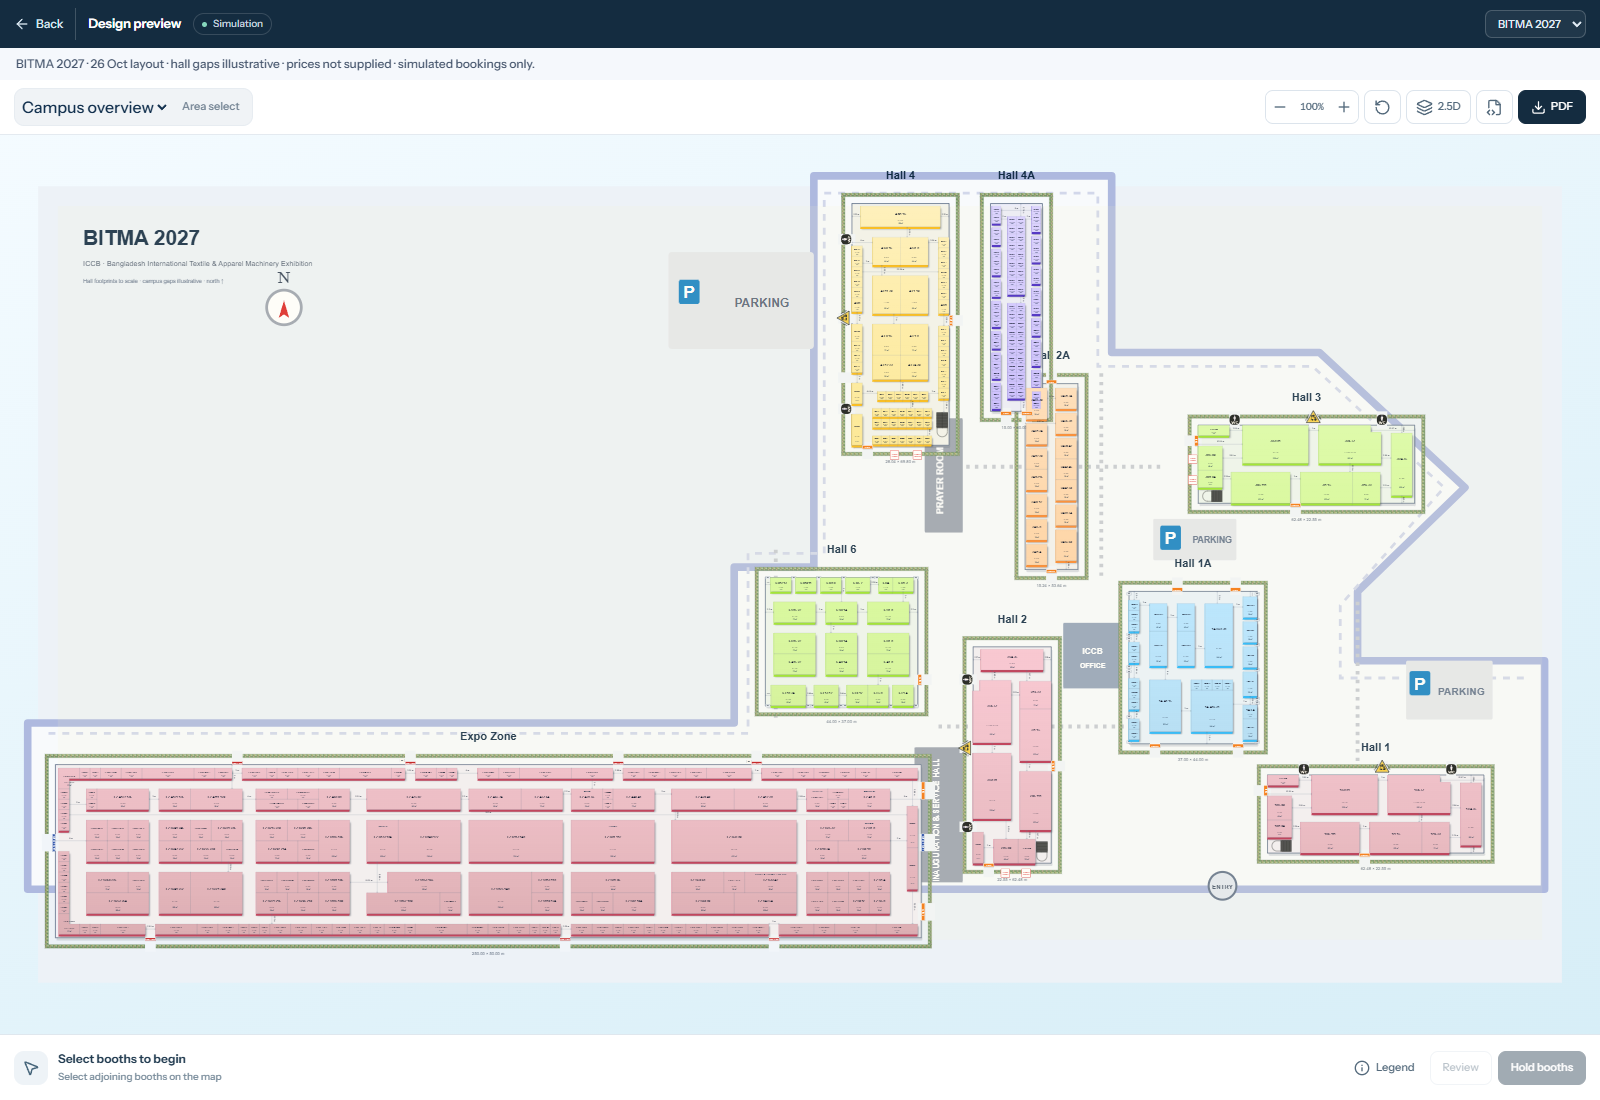
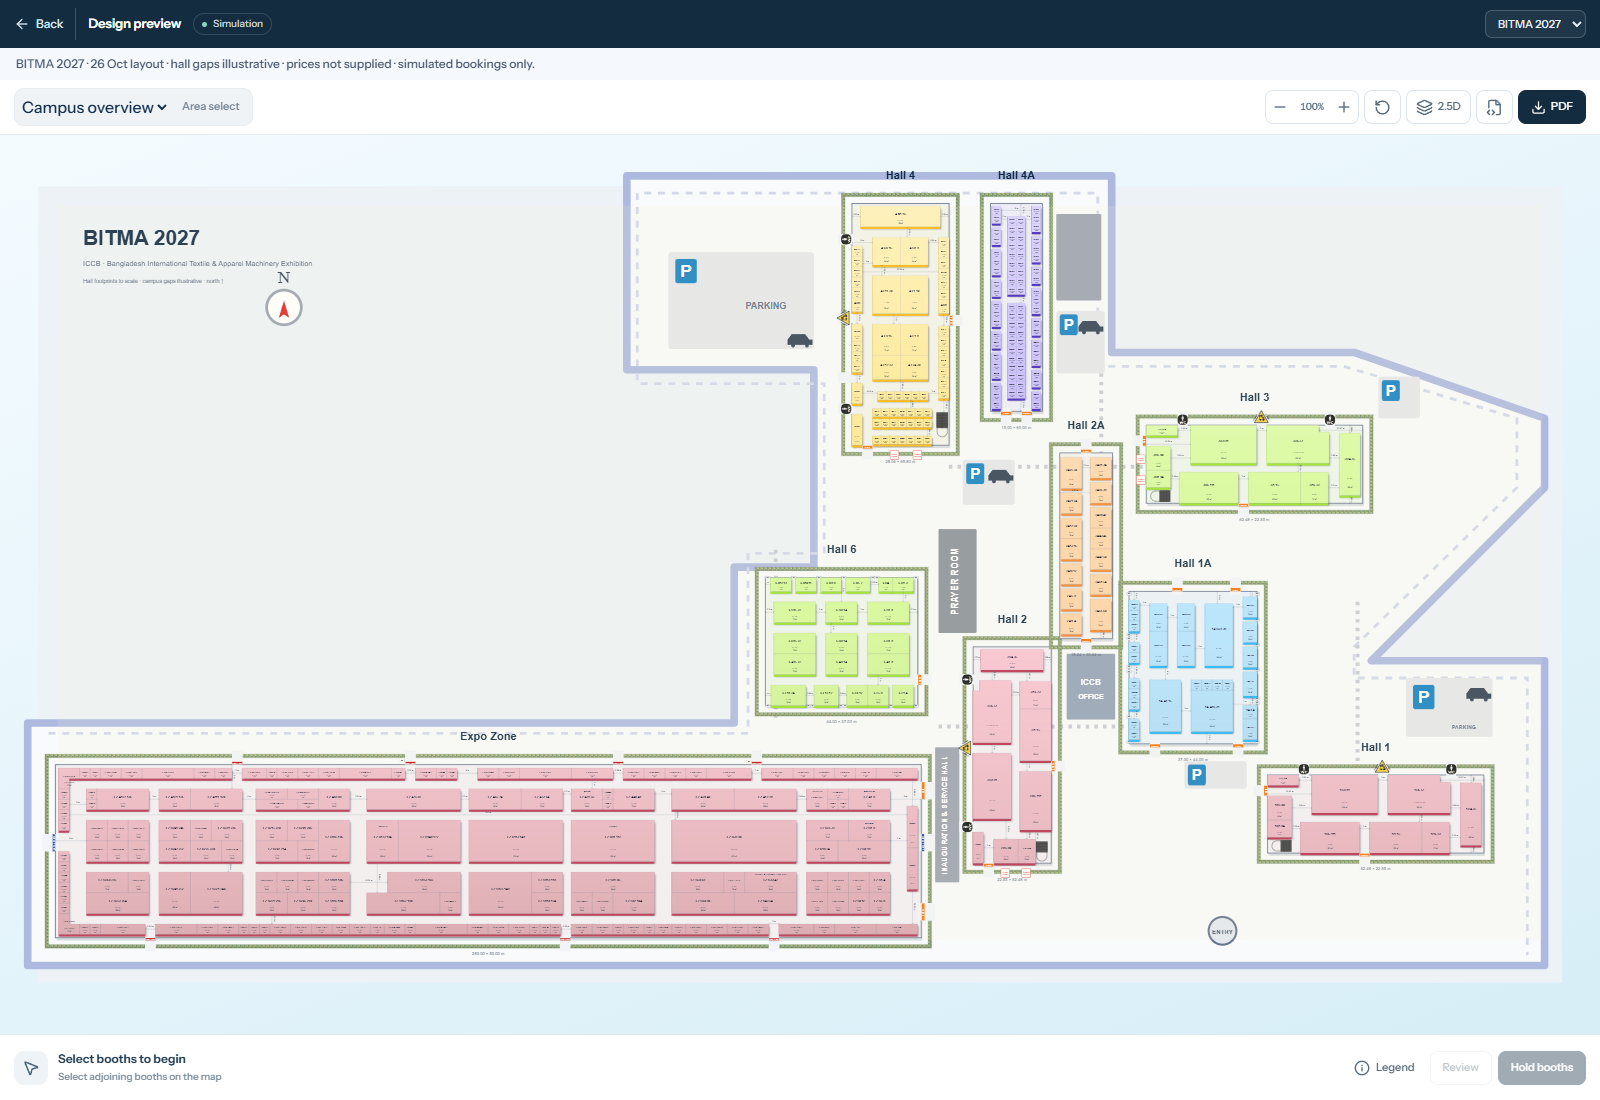
Refine BITMA campus boundaries and clearances

diff --git a/components/floorplan/bitma-grounds.tsx b/components/floorplan/bitma-grounds.tsx
@@ -4,6 +4,28 @@ import { mapTheme } from '@/lib/floorplan/map-colors';
 import { textWidth } from '@/lib/floorplan/map-text';
 import type { SceneRect } from '@/lib/floorplan/map-experience';
 import { gardenGateClip, gateApproach, wallSegments } from '@/lib/floorplan/map-gates';
+import { BITMA_CAMPUS } from '@/lib/floorplan/bitma-layout';
+
+function CampusFeatures(){
+ return <g data-bitma-campus-features pointerEvents="none">{BITMA_CAMPUS.features.map(f=>{
+  if(f.kind==='parking'){
+   const compact=f.width<20,pX=f.x+(compact?1:2),pY=f.y+(compact?1:2),pW=compact?5.2:6.2,pH=compact?6:7;
+   const showLabel=f.width>=25,showCar=f.height>=12&&f.width>=14,carX=f.x+f.width-8,carY=f.y+(f.height>=20?f.height-5:2.2);
+   return <g key={f.id} data-campus-feature={f.id} data-campus-feature-kind={f.kind}>
+    <rect x={f.x} y={f.y} width={f.width} height={f.height} rx=".8" fill="#e5e7eb"/>
+    <rect x={pX} y={pY} width={pW} height={pH} rx=".7" fill="#1682c4"/>
+    <text x={pX+pW/2} y={pY+pH*.76} textAnchor="middle" fontFamily="Arial,sans-serif" fontSize={compact?4.2:4.8} fontWeight="700" fill="#fff">P</text>
+    {showLabel&&<text x={f.x+f.width*.67} y={f.y+(f.height>=20?f.height*.59:f.height-2.2)} textAnchor="middle" fontFamily="Arial,sans-serif" fontSize={f.height>=20?2.6:1.55} fontWeight="700" fill="#64748b">PARKING</text>}
+    {showCar&&<g transform={`translate(${carX} ${carY})`} fill="#334155"><path d="M.4 2.3 1.6.7h3.9l1.2 1.6h.9v1.5H.4Z"/><circle cx="2" cy="4" r=".55"/><circle cx="6" cy="4" r=".55"/></g>}
+   </g>;
+  }
+  const fill=f.kind==='service'?'#9ca3af':f.kind==='prayer'?'#8b929b':'#94a3b8';
+  return <g key={f.id} data-campus-feature={f.id} data-campus-feature-kind={f.kind}>
+   <rect x={f.x} y={f.y} width={f.width} height={f.height} rx=".35" fill={fill}/>
+   {f.id==='prayer-room'?<text x={f.x+f.width/2} y={f.y+f.height/2} textAnchor="middle" fontFamily="Arial,sans-serif" fontSize="2.6" fontWeight="700" fill="#fff" transform={`rotate(-90 ${f.x+f.width/2} ${f.y+f.height/2})`}>PRAYER ROOM</text>:f.id==='iccb-office'?<><text x={f.x+f.width/2} y={f.y+9} textAnchor="middle" fontFamily="Arial,sans-serif" fontSize="2.4" fontWeight="700" fill="#fff">ICCB</text><text x={f.x+f.width/2} y={f.y+13} textAnchor="middle" fontFamily="Arial,sans-serif" fontSize="2" fontWeight="700" fill="#fff">OFFICE</text></>:f.id==='inauguration-service-hall'?<text x={f.x+f.width/2} y={f.y+f.height/2} textAnchor="middle" fontFamily="Arial,sans-serif" fontSize="2.1" fontWeight="700" fill="#fff" transform={`rotate(-90 ${f.x+f.width/2} ${f.y+f.height/2})`}>INAUGURATION &amp; SERVICE HALL</text>:null}
+  </g>;
+ })}</g>;
+}
 
 function CargoEntrySign({symbol}:{symbol:NonNullable<FloorLayout['siteSymbols']>[number]}){
  const w=symbol.width,h=symbol.height;
@@ -37,26 +59,19 @@ function AmenityButton({x,y,width,height,title,lines,id}:{x:number;y:number;widt
 
 /** Landscaping and wall elevations are visual; the floor rectangle is the metric boundary. */
 export function BitmaGrounds({layout,id,crop,onHallOpen}:{layout:FloorLayout;id:string;crop?:SceneRect;onHallOpen?:(hall:string)=>void}) {
+ const campusBoundaryPath=`M${BITMA_CAMPUS.boundary.map(([x,y])=>`${x} ${y}`).join('L')}Z`;
  const labelVisible=(x:number,y:number,text:string,size:number)=>!crop||
   (x-textWidth(text,size)/2>=crop.x&&x+textWidth(text,size)/2<=crop.x+crop.w&&y-size>=crop.y&&y+size<=crop.y+crop.h);
  return <g data-bitma-campus pointerEvents="none">
   <rect x="-5" y="-5" width={layout.width+10} height={layout.height+10} fill="#edf2f7"/>
   {(layout.siteHalls?.length||0)>1&&<>
     <g data-bitma-campus-outline>
-      <path d="M-8 150H196V105H219V-8H305V43H365L407 82 376 112V132H430V198H-8Z" fill="#f8fafc" stroke="#aeb9df" strokeWidth="2.2" strokeLinejoin="round"/>
-      <path d="M-2 153H200V101H222V-3H301V47H363L401 82 371 116V137H425" fill="none" stroke="#d2d7ea" strokeWidth=".8" strokeDasharray="2 2"/>
+      <path d={campusBoundaryPath} fill="#f8fafc" stroke="#aeb9df" strokeWidth="2.2" strokeLinejoin="round"/>
+      <path d="M-2 153H200V101H222V52H168V-3H301V47H372L422 62V82L375 128V137H425V217" fill="none" stroke="#d2d7ea" strokeWidth=".8" strokeDasharray="2 2"/>
       <path d="M208 100V150M258 76H319M255 151H340M302 49V108M376 115V163" fill="none" stroke="#c7cbd2" strokeWidth="1.1" strokeDasharray="1 1.5"/>
-      <g fontFamily="Arial,sans-serif" fontWeight="700" textAnchor="middle">
-        <rect x="177" y="14" width="42" height="28" rx="1" fill="#e5e7eb"/><text x="204" y="30" fontSize="3.5" fill="#596579">PARKING</text>
-        <rect x="251" y="62" width="11" height="33" rx=".3" fill="#9ca3af"/><text x="256.5" y="80" fontSize="2.6" fill="#fff" transform="rotate(-90 256.5 80)">PRAYER ROOM</text>
-        <rect x="291" y="121" width="17" height="19" rx=".3" fill="#94a3b8"/><text x="299.5" y="130" fontSize="2.4" fill="#fff">ICCB</text><text x="299.5" y="134" fontSize="2" fill="#fff">OFFICE</text>
-        <rect x="248" y="157" width="14" height="39" rx=".3" fill="#9ca3af"/><text x="255" y="178" fontSize="2.2" fill="#fff" transform="rotate(-90 255 178)">INAUGURATION &amp; SERVICE HALL</text>
-        <rect x="390" y="132" width="25" height="17" rx=".5" fill="#e5e7eb"/><text x="406" y="142" fontSize="3" fill="#64748b">PARKING</text>
-        <rect x="317" y="91" width="24" height="12" rx=".5" fill="#e5e7eb"/><text x="334" y="98" fontSize="2.5" fill="#64748b">PARKING</text>
-      </g>
-      {[{x:180,y:22},{x:391,y:135},{x:319,y:93}].map((p,i)=><g key={i} transform={`translate(${p.x} ${p.y})`}><rect width="6" height="7" rx=".7" fill="#1682c4"/><text x="3" y="5.4" textAnchor="middle" fontFamily="Arial,sans-serif" fontSize="4.8" fontWeight="700" fill="#fff">P</text></g>)}
+      <CampusFeatures/>
       <g transform="translate(66 30)" aria-label="North"><circle r="5" fill="#fff" stroke="#9ca3af" strokeWidth=".8"/><path d="M0-2 1.5 3 0 2 -1.5 3Z" fill="#dc2626"/><text x="0" y="-7" textAnchor="middle" fontFamily="serif" fontSize="5" fill="#334155">N</text></g>
-      <g transform="translate(337 197)"><circle r="4" fill="#e2e8f0" stroke="#64748b" strokeWidth=".6"/><text x="0" y="1" textAnchor="middle" fontFamily="Arial,sans-serif" fontSize="1.8" fontWeight="700" fill="#475569">ENTRY</text></g>
+      <g transform="translate(337 210)"><circle r="4" fill="#e2e8f0" stroke="#64748b" strokeWidth=".6"/><text x="0" y="1" textAnchor="middle" fontFamily="Arial,sans-serif" fontSize="1.8" fontWeight="700" fill="#475569">ENTRY</text></g>
     </g>
     <text x="8" y="12" fontFamily="Arial,sans-serif" fontSize="6" fontWeight="700" fill="#102a43">BITMA 2027</text>
     <text x="8" y="18" fontFamily="Arial,sans-serif" fontSize="2.1" fill="#475569">ICCB · Bangladesh International Textile &amp; Apparel Machinery Exhibition</text>

diff --git a/lib/floorplan/bitma-layout.ts b/lib/floorplan/bitma-layout.ts
@@ -10,17 +10,30 @@ export const bitmaSource = source;
 export const BITMA_CAMPUS = {
   width: 430,
   height: 220,
+  boundary: [[-8,150],[196,150],[196,105],[219,105],[219,48],[165,48],[165,-8],[305,-8],[305,43],[375,43],[430,62],[430,82],[380,132],[430,132],[430,220],[-8,220]] as const,
   origins: {
     '1': { x: 350, y: 165 },
     '2': { x: 265, y: 128 },
-    '3': { x: 330, y: 64 },
+    '3': { x: 315, y: 64 },
     '4': { x: 230, y: 0 },
     '1A': { x: 310, y: 112 },
     '6': { x: 205, y: 108 },
-    '2A': { x: 280, y: 52 },
+    '2A': { x: 290, y: 72 },
     '4A': { x: 270, y: 0 },
     EZ: { x: 0, y: 162 },
   } satisfies Record<string, { x: number; y: number }>,
+  features: [
+    { id: 'parking-north-west', kind: 'parking', x: 177, y: 14, width: 42, height: 28 },
+    { id: 'north-east-service-area', kind: 'service', x: 289, y: 3, width: 13, height: 25 },
+    { id: 'parking-hall-4a-east', kind: 'parking', x: 289, y: 31, width: 14, height: 18 },
+    { id: 'parking-central-north', kind: 'parking', x: 262, y: 74, width: 15, height: 13 },
+    { id: 'parking-hall-3-east', kind: 'parking', x: 382, y: 50, width: 12, height: 12 },
+    { id: 'parking-hall-1a-east', kind: 'parking', x: 390, y: 137, width: 25, height: 17 },
+    { id: 'parking-hall-1-south-west', kind: 'parking', x: 326, y: 161, width: 18, height: 8 },
+    { id: 'prayer-room', kind: 'prayer', x: 255, y: 94, width: 11, height: 30 },
+    { id: 'iccb-office', kind: 'office', x: 292, y: 130, width: 14, height: 19 },
+    { id: 'inauguration-service-hall', kind: 'service', x: 254, y: 157, width: 7, height: 39 },
+  ],
 } as const;
 
 export function bitmaGeometry(scope = ''): MapGeometry {

diff --git a/docs/bitma-map.md b/docs/bitma-map.md
@@ -20,7 +20,7 @@ The primary source is `BITMA Floor Plan 26.10.26.pdf` (two vector PDF pages). `@
 
 Every rentable width/height comes from printed booth dimensions, including 27 Hall 4 booths measuring 8 × 8 ft (2.4384 × 2.4384 m). Integer metre dimensions are not substituted for imperial booths. Unlabelled offsets are traced from calibrated vector positions; small Illustrator seam drift (at most 2 cm) is reconciled without resizing rentable footprints. These derived offsets are not surveyed engineering measurements.
 
-Campus spacing is explicitly illustrative. Each hall is calibrated independently, and campus distances are excluded from aisle measurements. The full-screen campus view follows the supplied blue ICCB site-plan arrangement, including its perimeter, parking areas, prayer room, ICCB office, inauguration/service hall, and entrance. Facility footprints and inter-hall gaps are visual estimates because no dimensioned site survey was supplied. Clicking a hall label or an open area within its outline opens the complete hall plan, fitted and centered. The campus view turns the Hall 2/4/6 diagrams north-up according to their source compasses; individual views retain the PDF orientation. The confirmed internal hall dimensions and all booth areas survive those transforms unchanged.
+Campus spacing is explicitly illustrative. Each hall is calibrated independently, and campus distances are excluded from aisle measurements. The full-screen campus view follows the supplied blue ICCB site-plan arrangement. One shared coordinate model defines the perimeter, parking areas, prayer room, ICCB office, inauguration/service hall, and entrance. Its geometry check confirms every hall and facility is inside the perimeter, no hall/facility rectangles intersect, and each facility stays at least 2 m from a hall footprint. Facility footprints and inter-hall gaps are visual estimates because no dimensioned site survey was supplied. Clicking a hall label or an open area within its outline opens the complete hall plan, fitted and centered. The campus view turns the Hall 2/4/6 diagrams north-up according to their source compasses; individual views retain the PDF orientation. The confirmed internal hall dimensions and all booth areas survive those transforms unchanged.
 
 ## Inventory and corrections
 
@@ -78,7 +78,7 @@ PDF export reuses the current high-resolution pipeline that preserves the blurre
 ## Verification record (28 October 2026)
 
 - Production build and TypeScript passed.
-- 79 domain checks passed: 25 BITMA geometry/selection/hold checks, 24 existing map checks and 30 Offer Letter checks.
+- 81 domain checks passed: 27 BITMA geometry/selection/hold checks, 24 existing map checks and 30 Offer Letter checks.
 - The isolated production-browser run passed all nine hall views, 400 SVG allocation labels, keyboard selection, pan/zoom, soft area selection, review/clear, 24-hour holds, cross-hall/reload persistence, expiry, occupied-hold handling, concave-notch hit testing, shared corridor labels, 2D/2.5D, fullscreen/back and mobile layout.
 - Four actual download controls produced one-page landscape A3 PDFs: campus, selected Hall 4 booths, selected Hall 1 composite and Hall 4A. Poppler renders were inspected for shadows, source artwork, garden bands, selection colours, labels and clipping. Export now serializes the garden component and suppresses partly clipped hall headings in selection crops.
 - Existing registration/Offer Letter browser regression passed. Registration PDFs retain their 28/24/28 fillable fields. The existing DTA/DCC map and export controls passed too. No original-source API requests or browser runtime errors occurred.
